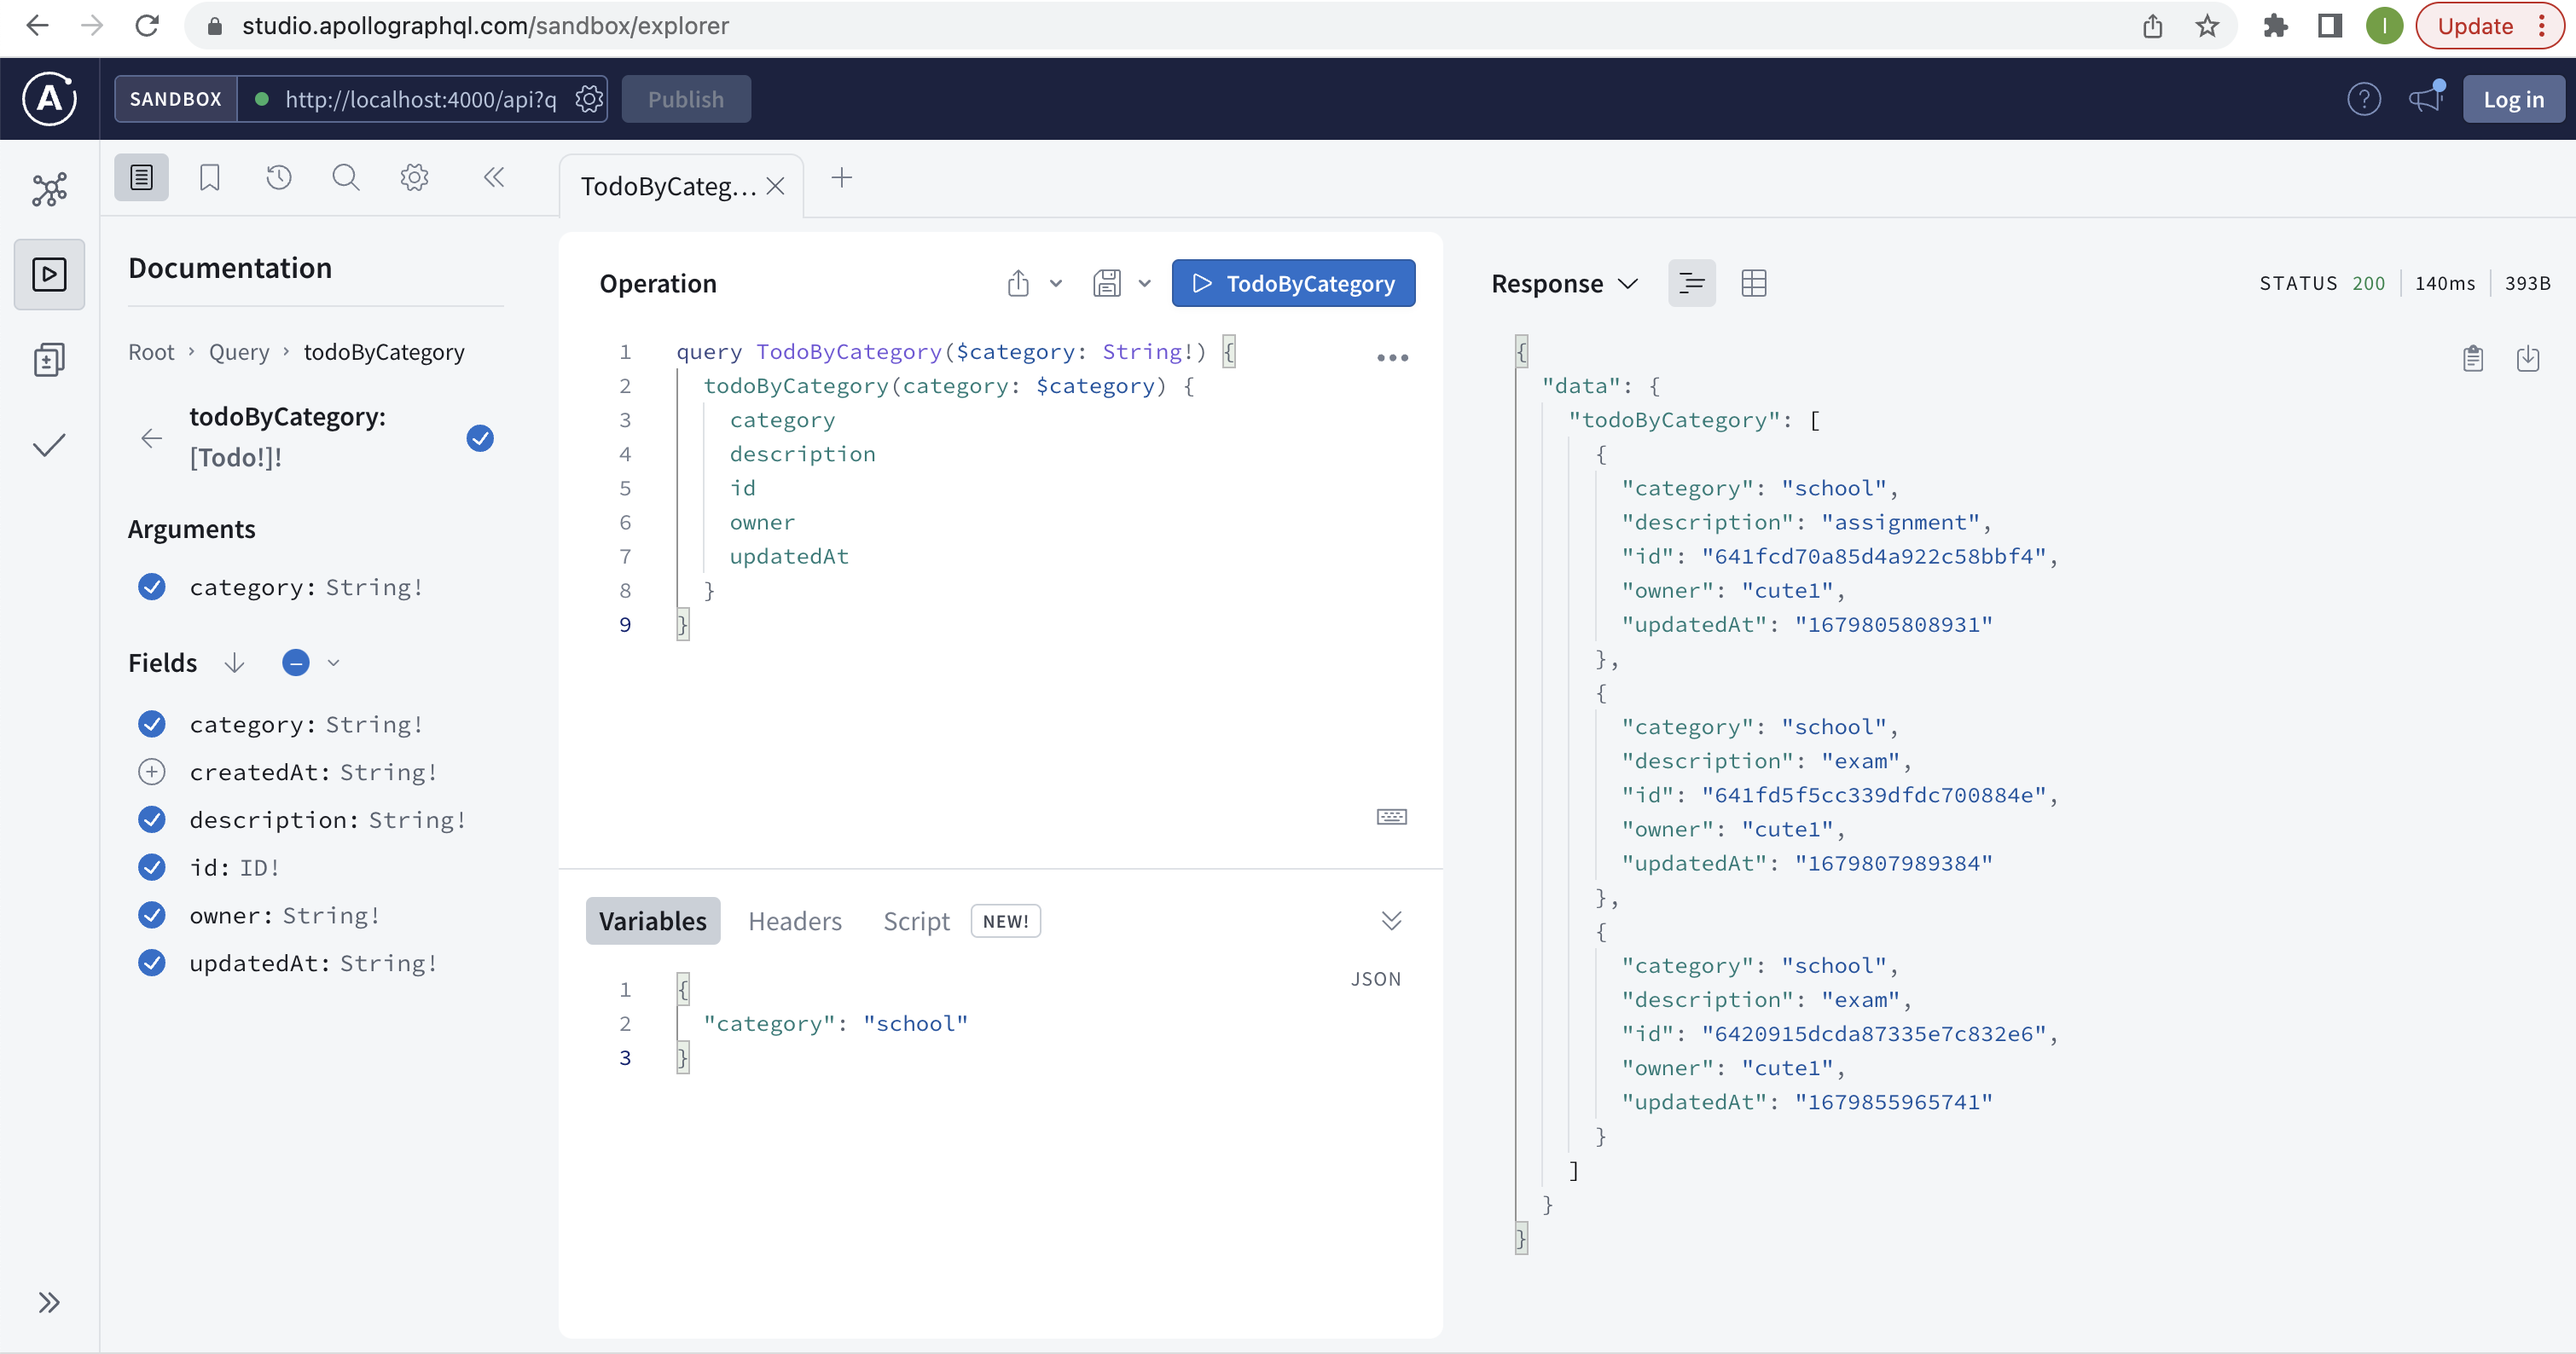
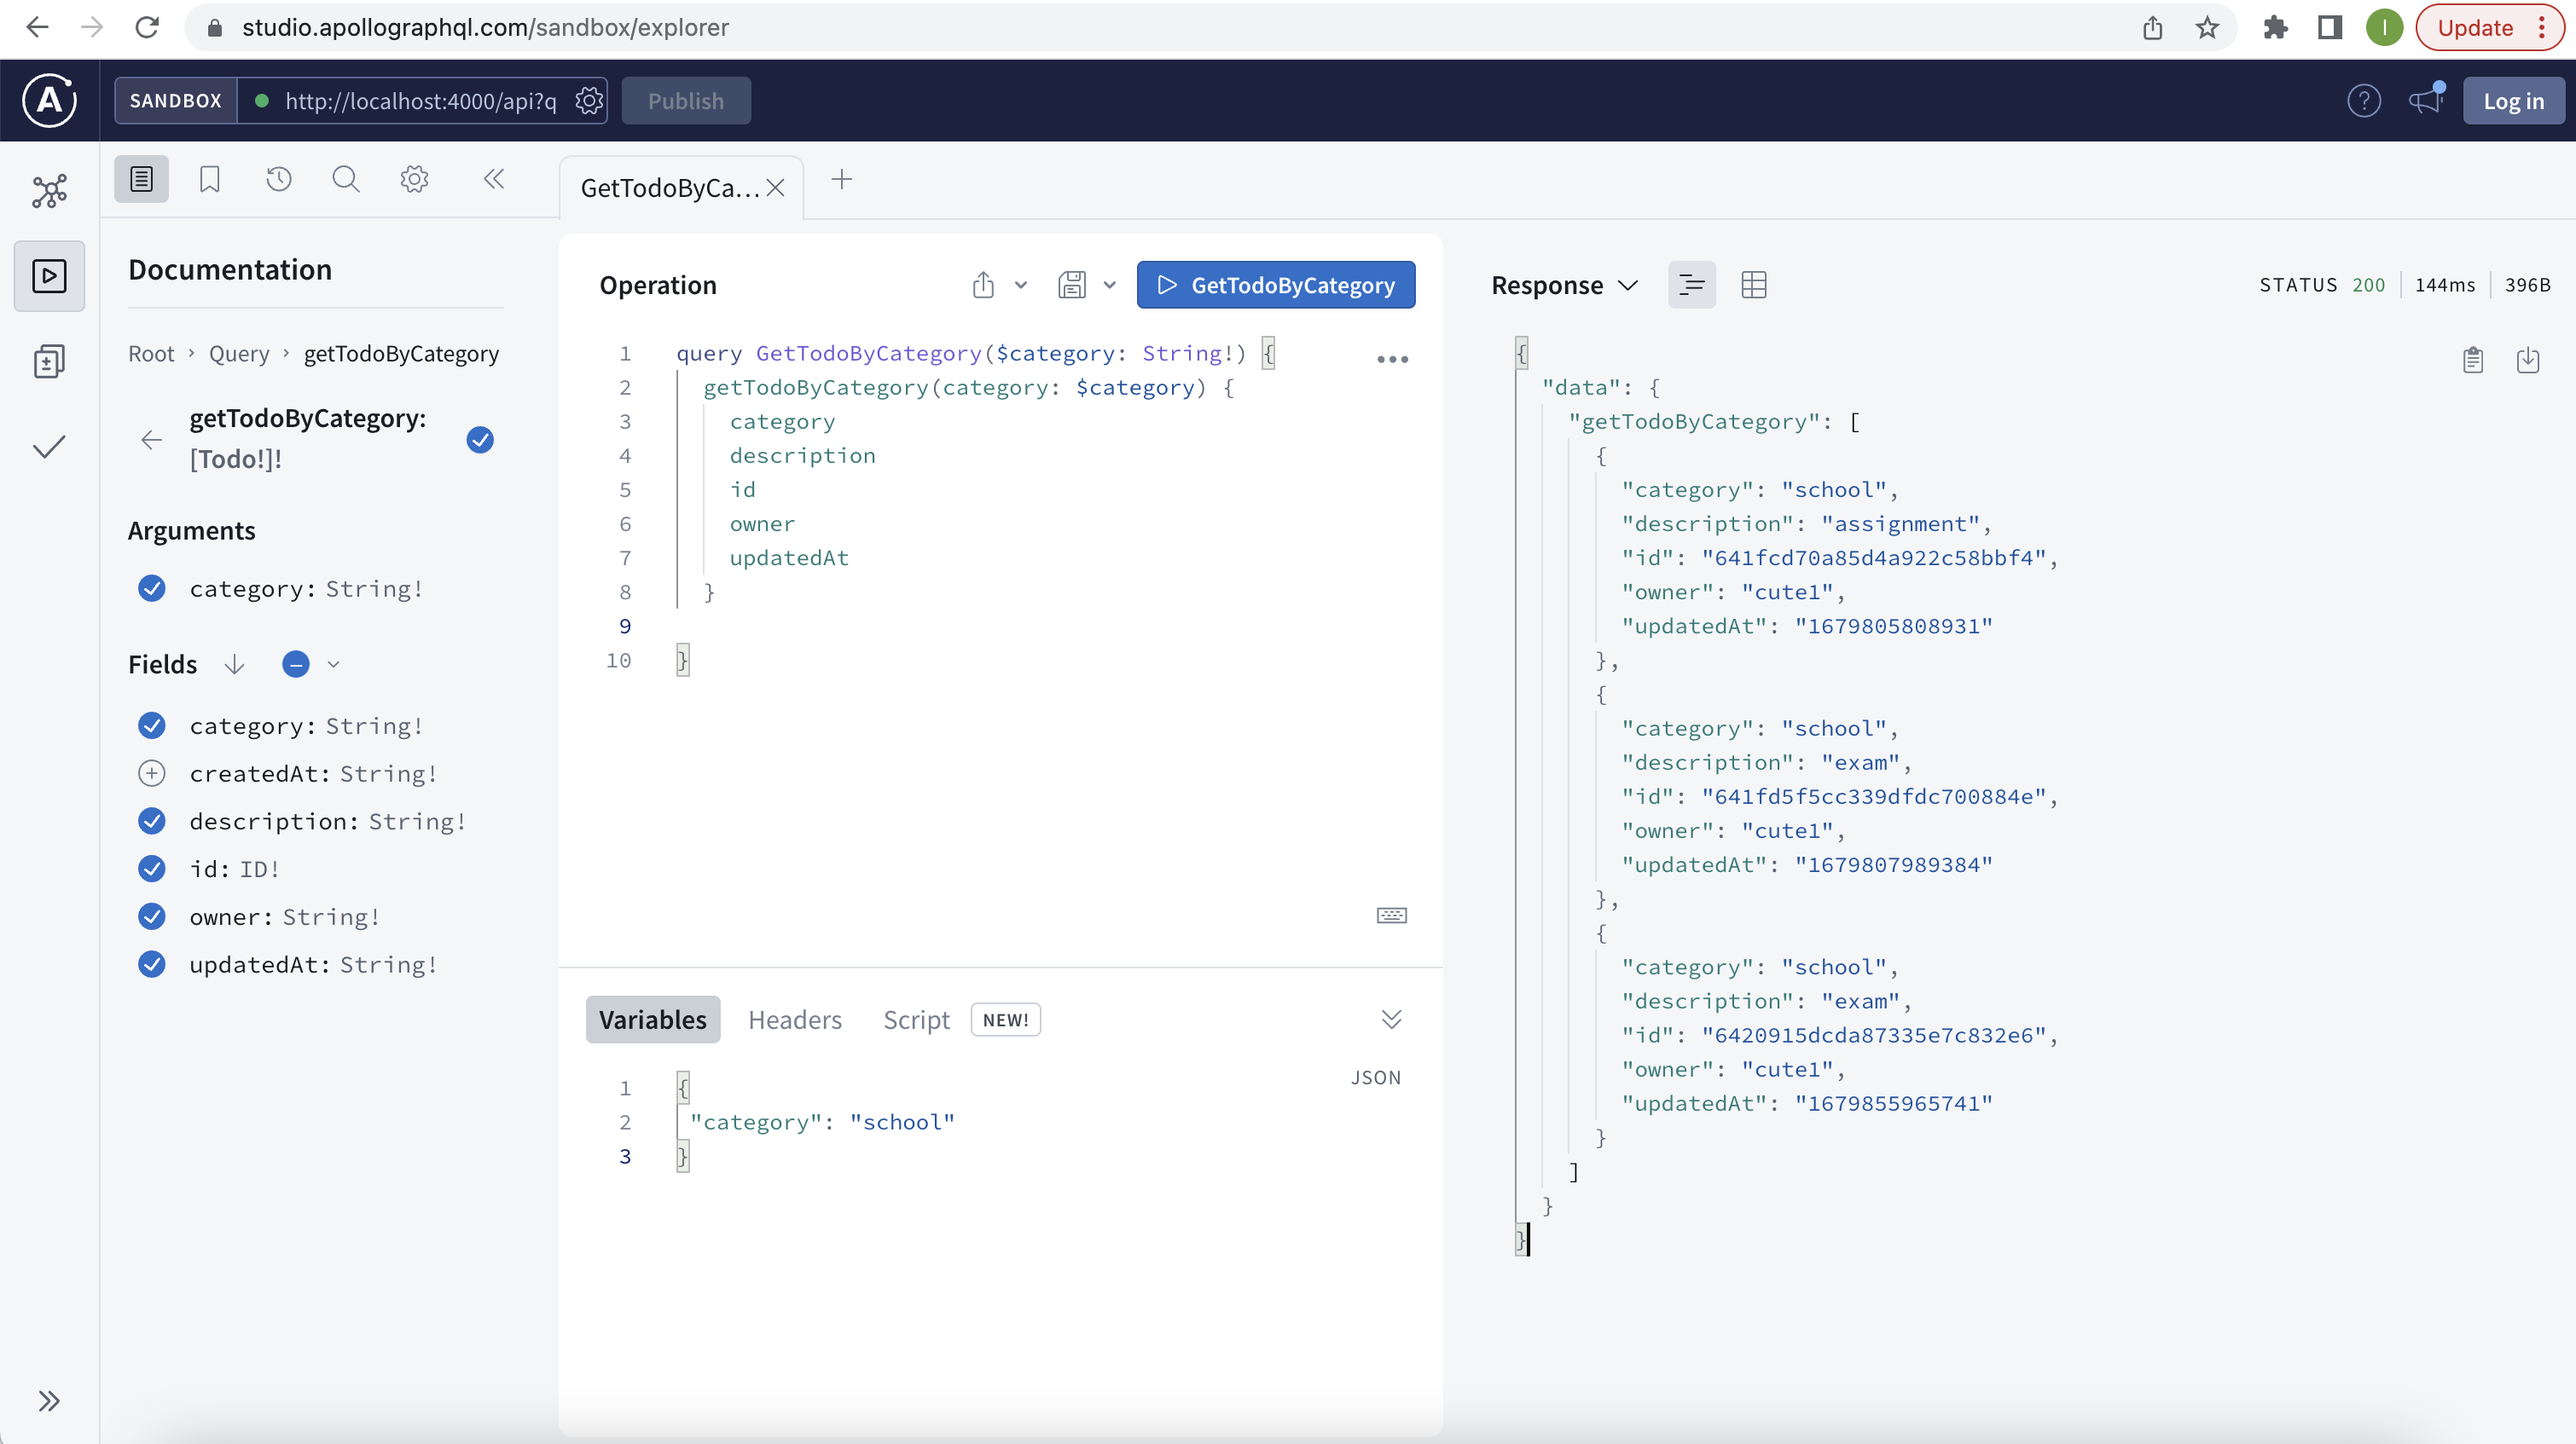
Rename query APIs

diff --git a/resolvers/resolvers.js b/resolvers/resolvers.js
@@ -18,18 +18,18 @@ const generateToken = (user) => {
 
 const resolvers = {
   Query: {
-    async todos() {
+    async getTodos() {
       const todos = await Todo.find({});
       return todos;
     },
-    async todoByCategory(_, { category }) {
+    async getTodoByCategory(_, { category }) {
       const todo = await Todo.find({ category });
       if (!todo) {
         throw new Error("Todo not found");
       }
       return todo;
     },
-    async todoByOwner(_, { owner }) {
+    async getTodoByOwner(_, { owner }) {
       const todo = await Todo.find({ owner });
       if (!todo) {
         throw new Error("Todo not found");

diff --git a/schema/schema.js b/schema/schema.js
@@ -43,9 +43,9 @@ input UpdateTodoInput {
 }
 
 type Query {
-  todos: [Todo!]!
-  todoByCategory(category: String!): [Todo!]!
-  todoByOwner(owner: String!): [Todo!]!
+  getTodos: [Todo!]!
+  getTodoByCategory(category: String!): [Todo!]!
+  getTodoByOwner(owner: String!): [Todo!]!
 }
 
 type Mutation {

diff --git a/README.md b/README.md
@@ -23,8 +23,8 @@ Content of the project folder:
     /db.js	         # dataBase configure file
 ├── index.js             # main app file
 ├── models               
-    /Todo.js 		 # Mongoose model file for Todo
-    /User.js 		 # Mongoose model file for User
+    /todo.js 		 # Mongoose model file for Todo
+    /user.js 		 # Mongoose model file for User
 ├── resolvers 		 # 
     /resolvers.js 	 # GraphQL resolvers file
 ├── schema 		 # 
@@ -50,9 +50,9 @@ To get started with the API, follow these steps:
 
 ## API Endpoints
 Query
-* todos: Get all the todos in the database.
-* todoByCategory(category: String): Get the todos that belong to the specified category.
-* todoByOwner(owner: String): Get the todos that belong to the specified owner's name.
+* getTodos: Get all the todos in the database.
+* getTodoByCategory(category: String): Get the todos that belong to the specified category.
+* getTodoByOwner(owner: String): Get the todos that belong to the specified owner's name.
 
 Mutation
 * register(input: UserInput): Create a new user account.
